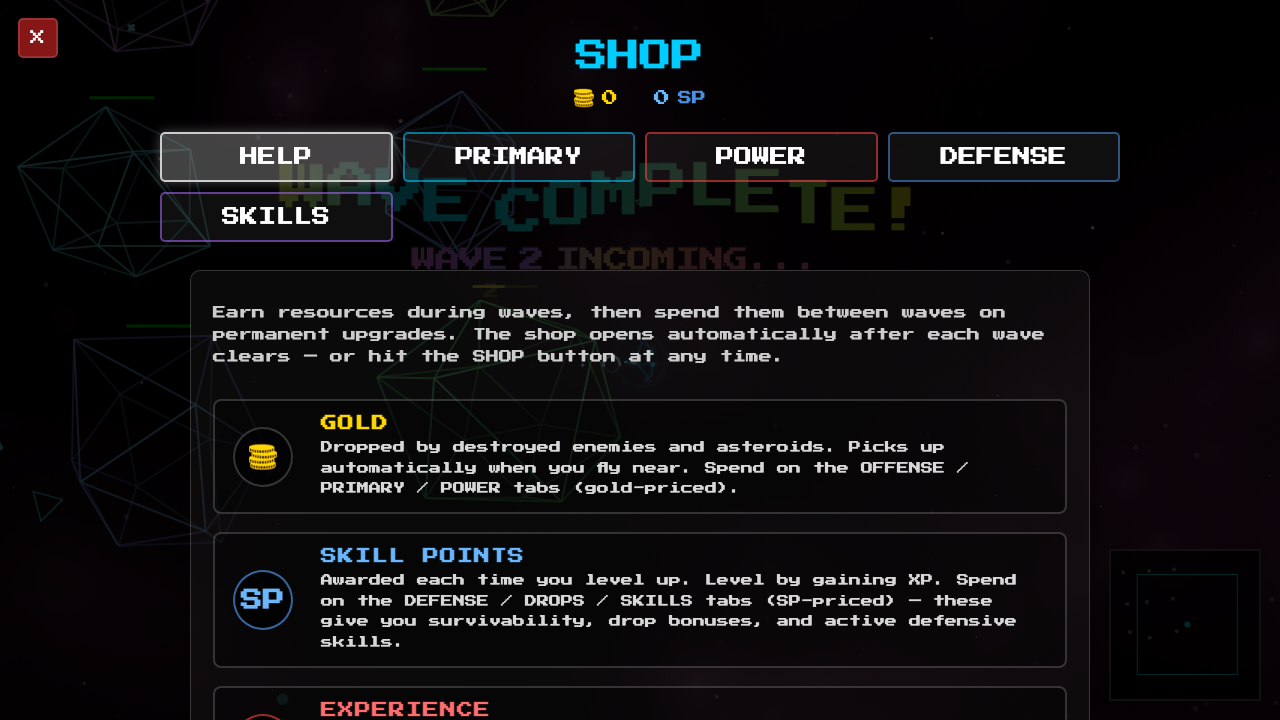
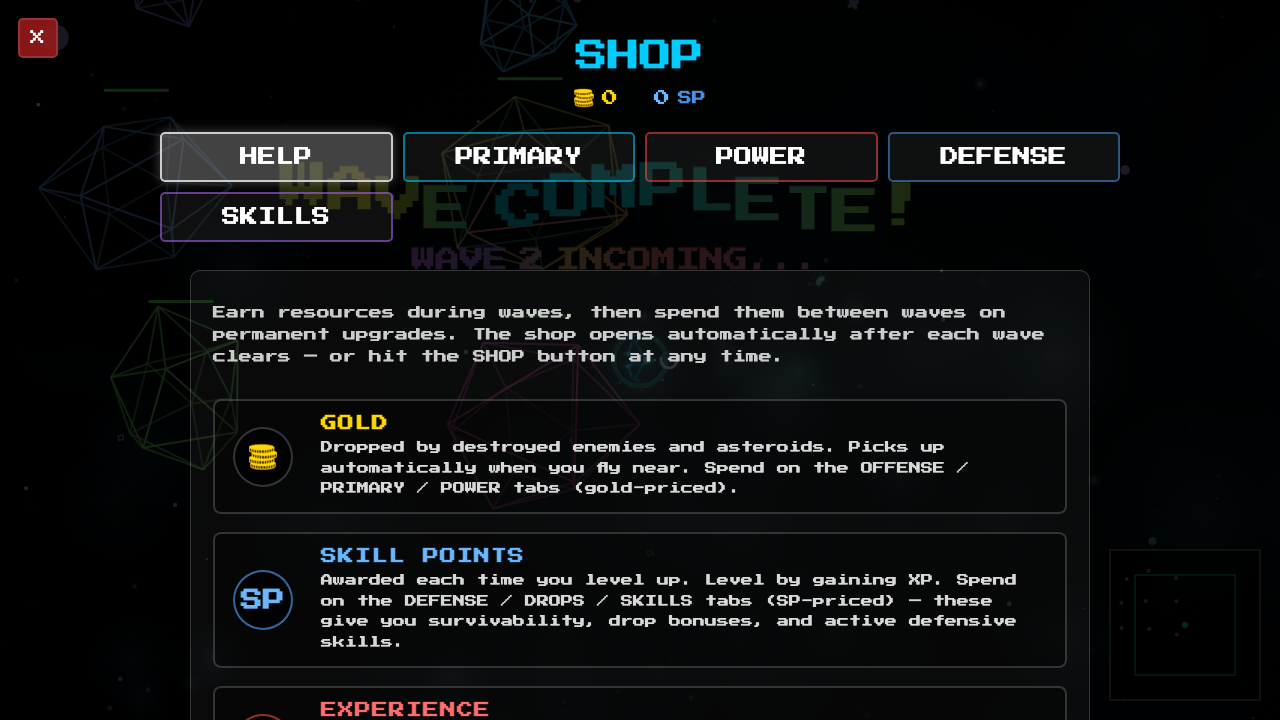
5.49.3: nebula refinement — asymmetry, density profiles, edge halos
- 2 new scene palettes (emerald-jade, rose-petal). 8 total.
- Per-palette accent color drives chromatic edge halos and 15% of
  speckles for color complexity.
- Sky tint per layer: faint full-canvas wash anchors each layer in
  the palette so the nebula feels continuous, not patchy.
- Density profiles per blob (25% bright / 55% normal / 20% haze)
  for visual rhythm — replaces uniform brightness.
- Elliptical sub-blobs (aspect 0.6-1.6, random rotation) replace
  perfect circles. Overall shape reads as gas/cloud, not bubbles.
- Edge halos: thin accent-color ring at the outer 22% of bright
  and normal blobs.
- Stardust variety: 80% white / 15% accent / 5% highlight color
  mix; 70% small / 25% medium / 5% bright-with-corona size mix.

diff --git a/js/modules/performance/nebula-renderer.js b/js/modules/performance/nebula-renderer.js
@@ -21,10 +21,9 @@
 
 import { random } from '../core/utils.js';
 
-// Scene palettes — each is a full color family (cool/blue, violet,
-// teal, warm-amber, etc.). One is picked per generate() call. All
-// layers and blobs draw from this same palette so the scene reads
-// as a single coherent nebula rather than a clash of different gases.
+// Scene palettes — each is a full color family. One is committed
+// per generate() call. Adds `accent` for the chromatic edge-halo
+// pass (slightly hue-shifted from primary for visual interest).
 const SCENE_PALETTES = [
     // Deep indigo + cobalt — classic space blue
     {
@@ -32,6 +31,7 @@ const SCENE_PALETTES = [
         primary:    [50, 80, 220],
         secondary:  [30, 50, 180],
         tertiary:   [80, 130, 255],
+        accent:     [120, 200, 255],
         shadow:     [10, 15, 50],
         highlight:  [180, 200, 255],
         speckle:    [220, 230, 255],
@@ -42,6 +42,7 @@ const SCENE_PALETTES = [
         primary:    [120, 60, 220],
         secondary:  [80, 30, 160],
         tertiary:   [200, 100, 255],
+        accent:     [255, 100, 200],
         shadow:     [25, 10, 50],
         highlight:  [240, 180, 255],
         speckle:    [255, 220, 255],
@@ -52,6 +53,7 @@ const SCENE_PALETTES = [
         primary:    [40, 160, 200],
         secondary:  [20, 100, 160],
         tertiary:   [80, 220, 240],
+        accent:     [120, 255, 220],
         shadow:     [5, 30, 60],
         highlight:  [180, 240, 255],
         speckle:    [220, 250, 255],
@@ -62,6 +64,7 @@ const SCENE_PALETTES = [
         primary:    [200, 140, 60],
         secondary:  [160, 90, 40],
         tertiary:   [240, 200, 100],
+        accent:     [255, 130, 80],
         shadow:     [50, 25, 10],
         highlight:  [255, 240, 180],
         speckle:    [255, 240, 200],
@@ -72,6 +75,7 @@ const SCENE_PALETTES = [
         primary:    [110, 110, 230],
         secondary:  [70, 70, 180],
         tertiary:   [160, 140, 240],
+        accent:     [200, 180, 255],
         shadow:     [25, 25, 70],
         highlight:  [220, 210, 255],
         speckle:    [240, 230, 255],
@@ -82,9 +86,32 @@ const SCENE_PALETTES = [
         primary:    [180, 60, 140],
         secondary:  [100, 30, 80],
         tertiary:   [220, 100, 180],
+        accent:     [180, 80, 220],
         shadow:     [40, 10, 30],
         highlight:  [255, 200, 230],
         speckle:    [255, 220, 240],
+    },
+    // Emerald + jade — rare verdant accent (think Eagle nebula)
+    {
+        name: 'emerald-jade',
+        primary:    [50, 180, 130],
+        secondary:  [30, 130, 90],
+        tertiary:   [120, 230, 180],
+        accent:     [200, 255, 180],
+        shadow:     [10, 40, 25],
+        highlight:  [220, 255, 230],
+        speckle:    [240, 255, 240],
+    },
+    // Rose pink + soft magenta — gentle / floral
+    {
+        name: 'rose-petal',
+        primary:    [220, 100, 160],
+        secondary:  [160, 60, 110],
+        tertiary:   [255, 160, 200],
+        accent:     [255, 200, 220],
+        shadow:     [50, 20, 35],
+        highlight:  [255, 230, 240],
+        speckle:    [255, 240, 250],
     },
 ];
 
@@ -190,11 +217,20 @@ class NebulaRenderer {
             // (cooler/dimmer) and near layers pop.
             const lp = this._derivedLayerPalette(cfg.lumMul);
 
-            // Body — main nebula blobs.
+            // Sky tint — faint full-canvas wash so the layer reads as
+            // a continuous gas field rather than detached patches.
+            this._drawSkyTint(ctx, w, h, cfg, lp);
+
+            // Body — main nebula blobs. Mix density profiles for
+            // visual rhythm: a few bright cores, a base of normal
+            // blobs, plus large background haze patches.
             const blobCount = Math.floor(random(cfg.blobCount[0], cfg.blobCount[1] + 1));
             const blobs = [];
             for (let i = 0; i < blobCount; i++) {
-                blobs.push(this._drawBlob(ctx, w, h, scale, cfg, lp));
+                // Density profile: 25% bright / 55% normal / 20% haze
+                const r = Math.random();
+                const profile = r < 0.25 ? 'bright' : r < 0.80 ? 'normal' : 'haze';
+                blobs.push(this._drawBlob(ctx, w, h, scale, cfg, lp, profile));
             }
 
             // Wisps — elongated streaks of gas connecting nearby blobs.
@@ -221,68 +257,149 @@ class NebulaRenderer {
             primary:   shade(sp.primary,   lumMul),
             secondary: shade(sp.secondary, lumMul),
             tertiary:  shade(sp.tertiary,  lumMul),
+            accent:    shade(sp.accent,    Math.min(1.1, lumMul + 0.05)),
             shadow:    shade(sp.shadow,    Math.max(0.3, lumMul - 0.2)),
             highlight: shade(sp.highlight, Math.min(1.2, lumMul + 0.2)),
             speckle:   sp.speckle, // speckle stays bright across all layers
         };
     }
 
+    // Faint full-canvas wash in the layer's secondary color. Anchors
+    // the layer in the palette and prevents the nebula from feeling
+    // like detached patches floating on pure black. Strength scales
+    // with layer luminance so far layers contribute less.
+    _drawSkyTint(ctx, w, h, layerCfg, lp) {
+        const grad = ctx.createRadialGradient(
+            w * (0.4 + Math.random() * 0.2),
+            h * (0.4 + Math.random() * 0.2),
+            0,
+            w / 2, h / 2,
+            Math.max(w, h) * 0.7,
+        );
+        const tintAlpha = 0.04 * layerCfg.lumMul;
+        grad.addColorStop(0,   rgba(lp.tertiary,  tintAlpha));
+        grad.addColorStop(0.5, rgba(lp.secondary, tintAlpha * 0.7));
+        grad.addColorStop(1,   rgba(lp.shadow,    tintAlpha * 0.4));
+        ctx.fillStyle = grad;
+        ctx.fillRect(0, 0, w, h);
+    }
+
     // Returns the placed blob's center + base radius so wisps + stardust
-    // can anchor near density peaks.
-    _drawBlob(ctx, canvasW, canvasH, scale, layerCfg, lp) {
+    // can anchor near density peaks. `profile` selects density variant:
+    //   'bright' — vivid, high opacity, definite hot core, edge halo
+    //   'normal' — middle ground, the workhorse blob
+    //   'haze'   — large, dim, no hot core; background gas
+    _drawBlob(ctx, canvasW, canvasH, scale, layerCfg, lp, profile = 'normal') {
         const cx = random(canvasW * 0.05, canvasW * 0.95);
         const cy = random(canvasH * 0.05, canvasH * 0.95);
-        const baseRadius = random(layerCfg.radiusRange[0], layerCfg.radiusRange[1]) * scale;
+        let baseRadius = random(layerCfg.radiusRange[0], layerCfg.radiusRange[1]) * scale;
 
-        // Sub-blobs — 4-6 overlapping clouds for organic shape, each
-        // rendered in 3 passes (shadow / body / highlight) so the
-        // result reads as a volumetric thing rather than a flat blob.
+        // Density-profile multipliers
+        let opacityMul = 1.0;
+        let radiusMul  = 1.0;
+        let drawCore   = true;
+        let drawHalo   = true;
+        if (profile === 'bright') {
+            opacityMul = 1.4;
+            radiusMul  = 0.85;
+        } else if (profile === 'haze') {
+            opacityMul = 0.55;
+            radiusMul  = 1.55;
+            drawCore   = false;
+            drawHalo   = Math.random() < 0.4; // mostly skip on haze
+        }
+        baseRadius *= radiusMul;
+
+        // Sub-blobs — 4-6 overlapping clouds for organic shape. Each
+        // sub-blob is rendered as an ELLIPSE (not a circle) so the
+        // overall nebula shape doesn't read as bubbles. Eccentricity
+        // and rotation vary per sub-blob.
         const subCount = Math.floor(random(4, 7));
         for (let s = 0; s < subCount; s++) {
             const ox = cx + random(-baseRadius * 0.55, baseRadius * 0.55);
             const oy = cy + random(-baseRadius * 0.55, baseRadius * 0.55);
-            const r = baseRadius * random(0.55, 1.2);
-            const opacity = random(layerCfg.opacityRange[0], layerCfg.opacityRange[1]);
+            const r  = baseRadius * random(0.55, 1.2);
+            const opacity = random(layerCfg.opacityRange[0], layerCfg.opacityRange[1]) * opacityMul;
+
+            // Ellipse params: aspect 0.6..1.6 with random rotation.
+            const aspect = random(0.6, 1.6);
+            const rx = r * Math.sqrt(aspect);
+            const ry = r / Math.sqrt(aspect);
+            const rot = Math.random() * Math.PI;
+
+            // Helper to fill an elliptical path centered at (px,py)
+            // rotated by `rot`, sized (erx, ery), with the given
+            // radial gradient. createRadialGradient takes scalar
+            // radii, so we draw the gradient on a circle of `R = max`
+            // and use ellipse path to clip the visual shape.
+            const drawEllipseGradient = (px, py, erx, ery, gradFactory) => {
+                const R = Math.max(erx, ery);
+                const grad = gradFactory(px, py, R);
+                ctx.fillStyle = grad;
+                ctx.save();
+                ctx.translate(px, py);
+                ctx.rotate(rot);
+                ctx.scale(erx / R, ery / R);
+                ctx.beginPath();
+                ctx.arc(0, 0, R, 0, Math.PI * 2);
+                ctx.fill();
+                ctx.restore();
+            };
 
             // ── 1. Shadow pass — large, dark, slightly offset ──
             const shadowOffset = r * 0.18;
             const sax = ox + shadowOffset;
             const say = oy + shadowOffset;
-            const sgrad = ctx.createRadialGradient(sax, say, 0, sax, say, r * 1.15);
-            sgrad.addColorStop(0,   rgba(lp.shadow, opacity * 0.55));
-            sgrad.addColorStop(0.6, rgba(lp.shadow, opacity * 0.25));
-            sgrad.addColorStop(1,   rgba(lp.shadow, 0));
-            ctx.fillStyle = sgrad;
-            ctx.beginPath();
-            ctx.arc(sax, say, r * 1.15, 0, Math.PI * 2);
-            ctx.fill();
+            drawEllipseGradient(sax, say, rx * 1.15, ry * 1.15, (px, py, R) => {
+                const g = ctx.createRadialGradient(px, py, 0, px, py, R);
+                g.addColorStop(0,   rgba(lp.shadow, opacity * 0.55));
+                g.addColorStop(0.6, rgba(lp.shadow, opacity * 0.25));
+                g.addColorStop(1,   rgba(lp.shadow, 0));
+                return g;
+            });
 
             // ── 2. Main body — multi-stop gradient through the palette ──
-            const grad = ctx.createRadialGradient(ox, oy, 0, ox, oy, r);
-            grad.addColorStop(0,    rgba(lp.tertiary,  opacity));
-            grad.addColorStop(0.25, rgba(lp.primary,   opacity * 0.85));
-            grad.addColorStop(0.55, rgba(lp.secondary, opacity * 0.55));
-            grad.addColorStop(0.85, rgba(lp.secondary, opacity * 0.18));
-            grad.addColorStop(1,    rgba(lp.secondary, 0));
-            ctx.fillStyle = grad;
-            ctx.beginPath();
-            ctx.arc(ox, oy, r, 0, Math.PI * 2);
-            ctx.fill();
+            drawEllipseGradient(ox, oy, rx, ry, (px, py, R) => {
+                const g = ctx.createRadialGradient(px, py, 0, px, py, R);
+                g.addColorStop(0,    rgba(lp.tertiary,  opacity));
+                g.addColorStop(0.25, rgba(lp.primary,   opacity * 0.85));
+                g.addColorStop(0.55, rgba(lp.secondary, opacity * 0.55));
+                g.addColorStop(0.85, rgba(lp.secondary, opacity * 0.18));
+                g.addColorStop(1,    rgba(lp.secondary, 0));
+                return g;
+            });
 
-            // ── 3. Hot core — small bright spot off-center ──
-            // Using 'lighter' would over-saturate the underlying canvas;
-            // a plain alpha pass keeps the palette intact.
-            const coreOx = ox + random(-r * 0.18, r * 0.18);
-            const coreOy = oy + random(-r * 0.18, r * 0.18);
-            const coreR = r * random(0.18, 0.32);
-            const cgrad = ctx.createRadialGradient(coreOx, coreOy, 0, coreOx, coreOy, coreR);
-            cgrad.addColorStop(0,   rgba(lp.highlight, opacity * 1.4));
-            cgrad.addColorStop(0.5, rgba(lp.tertiary,  opacity * 0.8));
-            cgrad.addColorStop(1,   rgba(lp.tertiary,  0));
-            ctx.fillStyle = cgrad;
-            ctx.beginPath();
-            ctx.arc(coreOx, coreOy, coreR, 0, Math.PI * 2);
-            ctx.fill();
+            // ── 3. Edge halo — thin ring of accent color at the
+            //    outer edge. Adds chromatic complexity / makes the
+            //    blob's silhouette feel less uniform. Skipped on
+            //    haze blobs (would muddy the soft look).
+            if (drawHalo) {
+                drawEllipseGradient(ox, oy, rx * 1.05, ry * 1.05, (px, py, R) => {
+                    const g = ctx.createRadialGradient(px, py, R * 0.78, px, py, R);
+                    g.addColorStop(0,   rgba(lp.accent, 0));
+                    g.addColorStop(0.6, rgba(lp.accent, opacity * 0.35));
+                    g.addColorStop(1,   rgba(lp.accent, 0));
+                    return g;
+                });
+            }
+
+            // ── 4. Hot core — small bright spot, off-center,
+            //    ALWAYS round (not affected by ellipse aspect) so
+            //    the brightness reads as a star-like nucleus.
+            //    Skipped on haze blobs.
+            if (drawCore) {
+                const coreOx = ox + random(-r * 0.18, r * 0.18);
+                const coreOy = oy + random(-r * 0.18, r * 0.18);
+                const coreR = r * random(0.18, 0.32);
+                const cgrad = ctx.createRadialGradient(coreOx, coreOy, 0, coreOx, coreOy, coreR);
+                cgrad.addColorStop(0,   rgba(lp.highlight, opacity * 1.4));
+                cgrad.addColorStop(0.5, rgba(lp.tertiary,  opacity * 0.8));
+                cgrad.addColorStop(1,   rgba(lp.tertiary,  0));
+                ctx.fillStyle = cgrad;
+                ctx.beginPath();
+                ctx.arc(coreOx, coreOy, coreR, 0, Math.PI * 2);
+                ctx.fill();
+            }
         }
 
         return { cx, cy, baseRadius };
@@ -338,7 +455,6 @@ class NebulaRenderer {
     // blobs, sparse fall-off outside.
     _drawStardust(ctx, canvasW, canvasH, layerCfg, lp, blobs) {
         const total = layerCfg.speckles;
-        ctx.fillStyle = `rgba(${lp.speckle[0]},${lp.speckle[1]},${lp.speckle[2]},1)`;
         for (let i = 0; i < total; i++) {
             // Bias 70% of speckles to live inside blobs.
             let x, y;
@@ -353,14 +469,36 @@ class NebulaRenderer {
                 x = Math.random() * canvasW;
                 y = Math.random() * canvasH;
             }
+
+            // Color: 80% pure speckle white, 15% palette accent, 5% highlight
+            // (prevents the speckle field from looking monochromatic).
+            const r = Math.random();
+            const c = r < 0.80 ? lp.speckle
+                    : r < 0.95 ? lp.accent
+                    : lp.highlight;
             const a = random(layerCfg.speckleAlpha[0], layerCfg.speckleAlpha[1]);
-            ctx.globalAlpha = a;
-            const size = Math.random() < 0.85 ? 0.5 : 1.1;
+
+            // Size distribution: 70% small dust, 25% medium, 5% bright stars
+            const t = Math.random();
+            let size;
+            if (t < 0.70) size = 0.4;
+            else if (t < 0.95) size = 0.9;
+            else size = 1.5;
+
+            ctx.fillStyle = rgba(c, a);
             ctx.beginPath();
             ctx.arc(x, y, size, 0, Math.PI * 2);
             ctx.fill();
+
+            // The brightest speckles get a tiny corona — feels like a
+            // pinpoint star embedded in the gas.
+            if (size === 1.5) {
+                ctx.fillStyle = rgba(c, a * 0.35);
+                ctx.beginPath();
+                ctx.arc(x, y, size * 2.2, 0, Math.PI * 2);
+                ctx.fill();
+            }
         }
-        ctx.globalAlpha = 1;
     }
 
     /**

diff --git a/CHANGELOG.md b/CHANGELOG.md
@@ -11,6 +11,20 @@ and this project adheres to [Semantic Versioning](https://semver.org/spec/v2.0.0
 
 ---
 
+## [5.49.3] - 2026-05-03
+
+### Changed
+- **Nebula refinement pass — depth, asymmetry, and detail.**
+  - **Two new scene palettes**: `emerald-jade` (rare verdant accent) and `rose-petal` (gentle pink/magenta), bringing the total to 8.
+  - **Per-palette `accent` color** added to every scene palette; used for chromatic edge halos around blobs and 15% of speckles, so the gas has visible color complexity rather than a single hue ramp.
+  - **Sky tint per layer** — faint full-canvas radial wash in the layer's secondary color anchors each layer in the palette and prevents detached-patches feel. Strength scales with layer luminance.
+  - **Density profiles per blob** — each blob is randomly assigned `bright` (25%, vivid + halo + hot core), `normal` (55%, the workhorse), or `haze` (20%, oversized + dim + no core). Visual rhythm replaces the previous uniform brightness.
+  - **Elliptical sub-blobs** — sub-blobs now render as ellipses with random aspect (0.6× to 1.6×) and random rotation, not perfect circles. Overall nebula shape reads as gas/cloud rather than bubbles.
+  - **Edge halos** — thin chromatic ring at the outer 22% of bright/normal blobs in the accent color. Adds silhouette interest.
+  - **Stardust variety** — speckle colors mix 80% pure speckle / 15% accent / 5% highlight; sizes mix 70% small / 25% medium / 5% bright stars (with a tiny corona on the brightest).
+
+---
+
 ## [5.49.2] - 2026-05-03
 
 ### Changed
